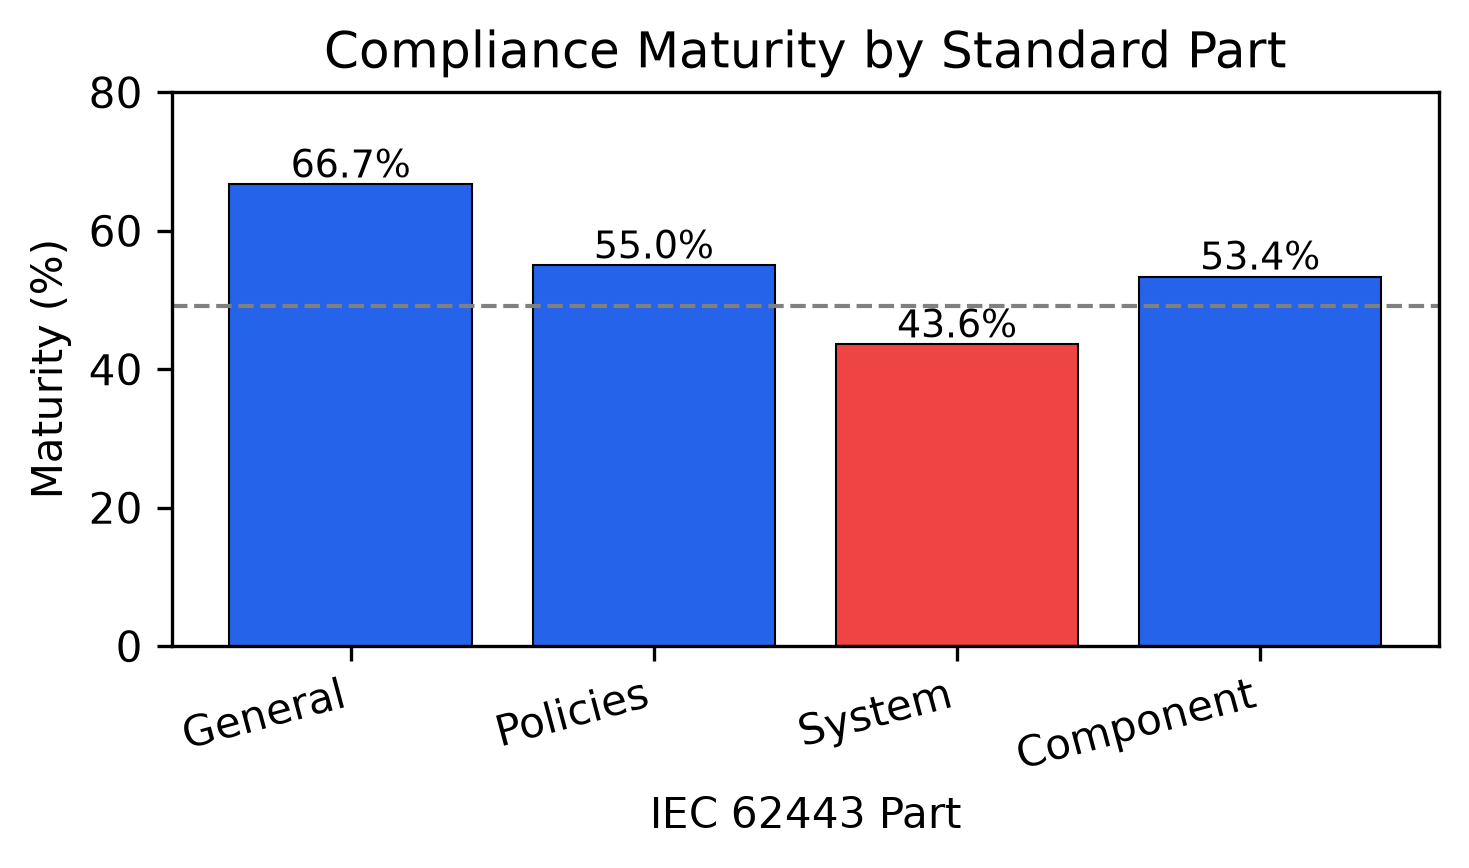
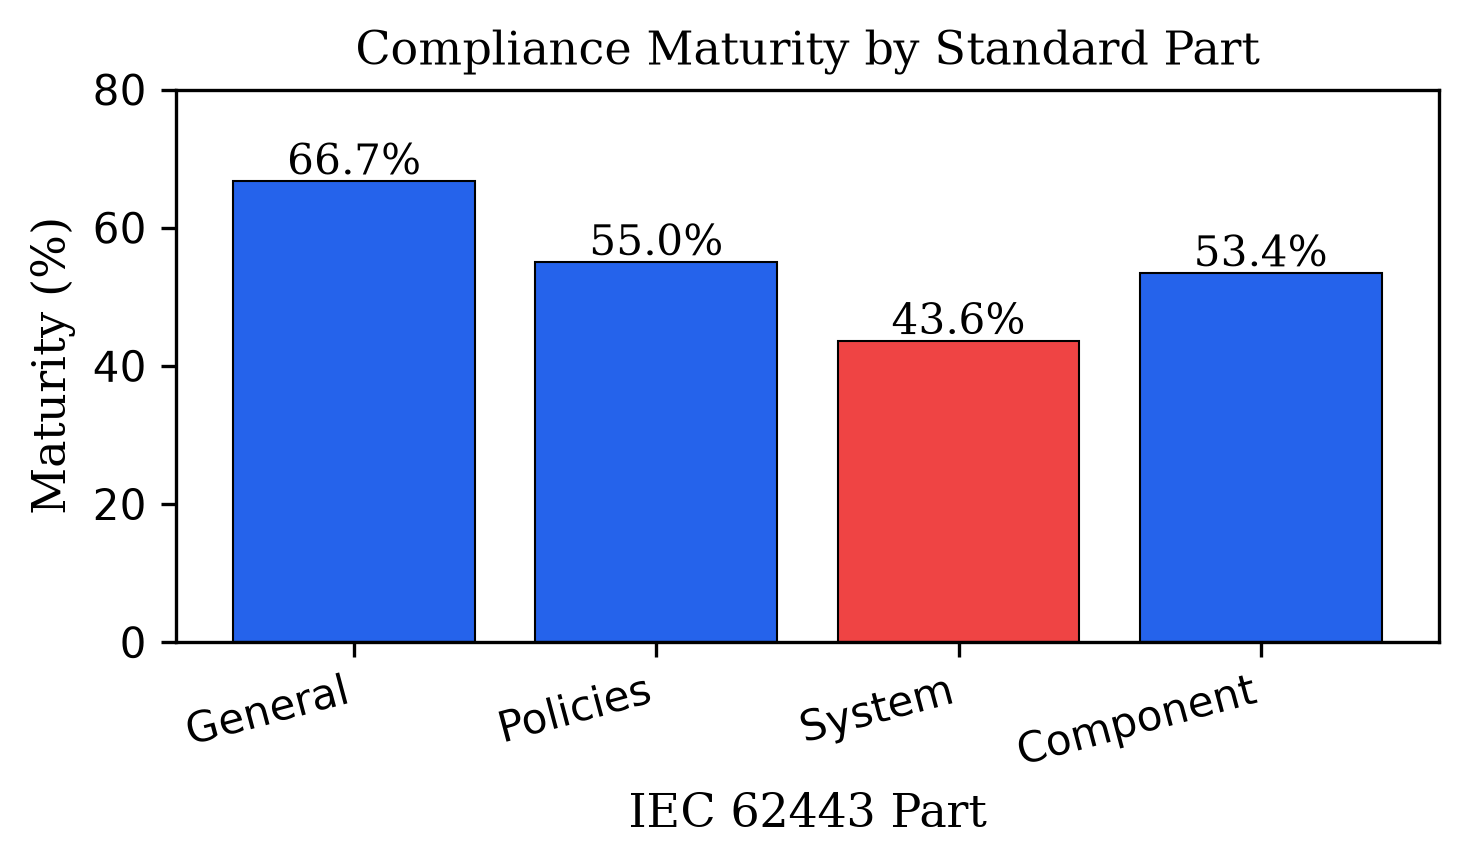
Add EDAS upload fix guide and PNG figure for font compliance

diff --git a/docs/ieee/EDAS-UPLOAD-FIX.md b/docs/ieee/EDAS-UPLOAD-FIX.md
@@ -1,0 +1,127 @@
+# EDAS Upload Failed — Fix These 4 Things
+
+Your paper content is fine. EDAS rejected **formatting only**. Fix in Overleaf, re-download PDF, upload again.
+
+---
+
+## Fix 1 — Abstract must match EDAS exactly
+
+In **`main.tex`**, find the abstract sentence:
+
+**Change FROM:**
+```latex
+We validate the artifact through a case study at an anonymized
+```
+
+**Change TO:**
+```latex
+We validate the artifact through a pilot case study at an anonymized
+```
+
+**And change FROM:**
+```latex
+(risk score $\geq 15$)
+```
+
+**Change TO (use words — avoids ≥ symbol mismatch):**
+```latex
+(risk score at least 15)
+```
+
+**OR** edit abstract in **EDAS metadata** to remove the word `pilot` and match PDF — but tex fix is easier.
+
+---
+
+## Fix 2 — Add these lines at top of main.tex (after `\documentclass`)
+
+**Replace line 1:**
+```latex
+\documentclass[conference]{IEEEtran}
+```
+
+**With:**
+```latex
+\documentclass[10pt,conference]{IEEEtran}
+```
+
+**Add right after `\IEEEoverridecommandlockouts`:**
+```latex
+\usepackage{newtxtext,newtxmath}
+\usepackage{courier}
+\setlength{\columnsep}{0.25in}
+\IEEEsettopmargin{0.75in}
+```
+
+This fixes: **font**, **gutter**, **top margin**.
+
+---
+
+## Fix 3 — Use PNG figure (fixes Type 3 DejaVuSans error)
+
+1. Download from GitHub: `docs/ieee/figures/maturity-by-part.png`  
+   Or export from repo branch `cursor/thesis-and-webapp-848f`
+
+2. Upload **`maturity-by-part.png`** to Overleaf `figures/` folder
+
+3. **Change figure line FROM:**
+```latex
+\includegraphics[width=\linewidth]{figures/maturity-by-part.pdf}
+```
+
+**TO:**
+```latex
+\includegraphics[width=\linewidth]{figures/maturity-by-part.png}
+```
+
+---
+
+## Fix 4 — Recompile and upload
+
+1. Click **Recompile** twice in Overleaf  
+2. **Download PDF**  
+3. Upload same file to EDAS again  
+
+---
+
+## If font size still fails (11 pt error)
+
+Add this **before** `\begin{document}`:
+
+```latex
+\makeatletter
+\renewcommand{\normalsize}{%
+   \@setfontsize\normalsize{11}{13.6}%
+   \abovedisplayskip 10\p@ \@plus2\p@ \@minus5\p@
+   \abovedisplayshortskip \z@ \@plus3\p@
+   \belowdisplayshortskip 6\p@ \@plus3\p@ \@minus3\p@
+   \belowdisplayskip \abovedisplayskip
+   \let\@listi\@listI}
+\normalsize
+\makeatother
+```
+
+---
+
+## Quick checklist
+
+```
+[ ] Abstract says "pilot case study"
+[ ] Risk score says "at least 15" (not ≥ symbol)
+[ ] newtxtext + columnsep 0.25in + IEEEsettopmargin 0.75in
+[ ] Figure is PNG not PDF
+[ ] Recompile → download → upload to EDAS
+```
+
+---
+
+## EDAS abstract field
+
+Make sure EDAS abstract text **exactly matches** PDF abstract (copy-paste from PDF after recompile).
+
+Paste this in EDAS abstract box:
+
+```
+Industrial Automation and Control Systems (IACS) in manufacturing environments face escalating cyber threats while operational constraints limit the application of conventional IT security controls. The IEC 62443 standard family provides comprehensive guidance for IACS security, including Security Level (SL) targets, zones and conduits, and security management systems; however, practitioners lack integrated, reproducible tools that combine compliance assessment with risk-based prioritization. This paper presents the design and implementation of an open-source web assessment platform that operationalizes IEC 62443 through four modules: a 107-item compliance checklist mapped to standard parts 1-4, an SL-Target calculator based on the IEC threat actor model, a zones-and-conduits planner aligned with IEC 62443-3-2, and a five-by-five risk register. We validate the artifact through a pilot case study at an anonymized automotive manufacturing assembly line. Results show 49.1% overall compliance maturity, with System requirements lowest (43.6%) and two of five architectural zones exhibiting SL-Achieved below SL-Target (DMZ and Operations). Ten risks were registered, including four critical items (risk score at least 15) related to vendor remote access, unpatched PLCs, and MES-OT integration. The study demonstrates that integrated SL-gap and risk analysis surfaces remediation priorities not evident from compliance percentage alone. The artifact, dataset pipeline, and export formats support reproducible OT security research and practitioner baseline assessments.
+```
+
+Also update abstract in `main.tex` to use **"at least 15"** so PDF and EDAS match.
